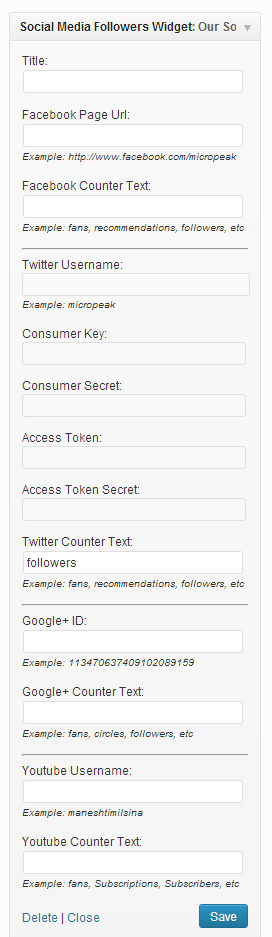
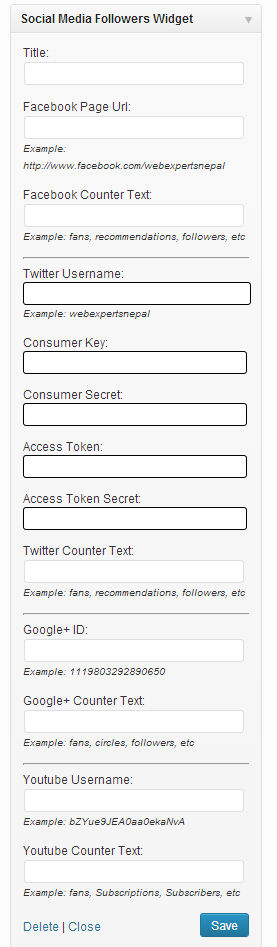
Screenshot, Readme.txt and functions changed
git-svn-id: https://plugins.svn.wordpress.org/social-media-followers-counter/trunk@728343 b8457f37-d9ea-0310-8a92-e5e31aec5664

diff --git a/social-counter.php b/social-counter.php
@@ -1,11 +1,11 @@
 <?php
 /*
- * Plugin Name: Social Media Followers Counter
+ * Plugin Name: WEN's Social Media Followers Counter
  * Version: 1.0
- * Plugin URI: #
- * Description: Display Likes of Facebook page, Followers of Twitter, Circles of Google Plus and Subscribers of Youtube.
- * Author: Manesh Timilsina
- * Author URI: http://manesh.com.np/
+ * Plugin URI: http://wordpress.org/plugins/social-media-followers-counter
+ * Description: A social media follower counter and custom text display plugin : this plugin currently fetch likes of Facebook page, followers of Twitter, circles of Google Plus and subscribers of Youtube . Comes packed with icon sprites and offers a neat display of the statistics . It is easy to setup and convenient to use.
+ * Author: Web Experts Nepal, Manesh Timilsina
+ * Author URI: http://webexpertsnepal.com
  * License: GNU/GPL http://www.gnu.org/copyleft/gpl.html
  */
 class FollowerCounterWidget extends WP_Widget
@@ -106,7 +106,7 @@ class FollowerCounterWidget extends WP_Widget
 		echo '<p style="text-align:left;"><label for="' . $this->get_field_name('title') . '">' . __('Title:') . ' <input style="width: 220px;" id="' . $this->get_field_id('title') . '" name="' . $this->get_field_name('title') . '" type="text" value="' . $title . '" /></label></p>';		
 		
 	echo '<p style="text-align:left;"><label for="' . $this->get_field_name('facebook_page_url') . '">' . __('Facebook Page Url:') . ' <input style="width: 220px;" id="' . $this->get_field_id('facebook_page_url') . '" name="' . $this->get_field_name('facebook_page_url') . '" type="text" value="' . $facebook . '" /></label>
-	<span style="font-size:10px; font-style: italic;">'.__('Example: http://www.facebook.com/micropeak ').'</span>
+	<span style="font-size:10px; font-style: italic;">'.__('Example: http://www.facebook.com/webexpertsnepal ').'</span>
 	</p>';
 	
 	echo '<p style="text-align:left;"><label for="' . $this->get_field_name('facebook_text') . '">' . __('Facebook Counter Text:') . ' <input style="width: 220px;" id="' . $this->get_field_id('facebook_text') . '" name="' . $this->get_field_name('facebook_text') . '" type="text" value="' . $facebook_text . '" /></label>
@@ -115,13 +115,13 @@ class FollowerCounterWidget extends WP_Widget
 	
 	echo '<hr></hr>';
 	?>
-    <p>
-	<label for="<?php echo $this->get_field_id('twitter_id'); ?>">Twitter Username:</label>
-	<input class="widefat" style="width: 220px;" id="<?php echo $this->get_field_id('twitter_id'); ?>" name="<?php echo $this->get_field_name('twitter_id'); ?>" value="<?php echo $instance['twitter_id']; ?>" />	
-	<span style="font-size:10px; font-style: italic;"><?php echo __('Example: micropeak '); ?></span>
-	</p>
+    	<p>
+        <label for="<?php echo $this->get_field_id('twitter_id'); ?>">Twitter Username:</label>
+        <input class="widefat" style="width: 220px;" id="<?php echo $this->get_field_id('twitter_id'); ?>" name="<?php echo $this->get_field_name('twitter_id'); ?>" value="<?php echo $instance['twitter_id']; ?>" />	
+		<span style="font-size:10px; font-style: italic;"><?php echo __('Example: webexpertsnepal '); ?></span>
+		</p>
 	
-    <p>
+    	<p>
 			<label for="<?php echo $this->get_field_id('consumer_key'); ?>">Consumer Key:</label>
 			<input class="widefat" style="width: 216px;" id="<?php echo $this->get_field_id('consumer_key'); ?>" name="<?php echo $this->get_field_name('consumer_key'); ?>" value="<?php echo $instance['consumer_key']; ?>" />
 		</p>
@@ -144,13 +144,13 @@ class FollowerCounterWidget extends WP_Widget
 		
     <?php
 	
-	echo '<p style="text-align:left;"><label for="' . $this->get_field_name('twitter_text') . '">' . __('Twitter Counter Text:') . ' <input style="width: 220px;" id="' . $this->get_field_id('twitter_text') . '" name="' . $this->get_field_name('twitter_text') . '" type="text" value="' . $twitter_text . '" /></label>
-	<span style="font-size:10px; font-style: italic;">'.__('Example: fans, recommendations, followers, etc ').'</span>
-	</p>';
+		echo '<p style="text-align:left;"><label for="' . $this->get_field_name('twitter_text') . '">' . __('Twitter Counter Text:') . ' <input style="width: 220px;" id="' . $this->get_field_id('twitter_text') . '" name="' . $this->get_field_name('twitter_text') . '" type="text" value="' . $twitter_text . '" /></label>
+		<span style="font-size:10px; font-style: italic;">'.__('Example: fans, recommendations, followers, etc ').'</span>
+		</p>';
 	
-	echo '<hr></hr>';
+		echo '<hr></hr>';
 		echo '<p style="text-align:left;"><label for="' . $this->get_field_name('gplus_id') . '">' . __('Google+ ID:') . ' <input style="width: 220px;" id="' . $this->get_field_id('gplus_id') . '" name="' . $this->get_field_name('gplus_id') . '" type="text" value="' . $gplus . '" /></label>
-		<span style="font-size:10px; font-style: italic;">'.__('Example: 113470637409102089159').'</span>
+		<span style="font-size:10px; font-style: italic;">'.__('Example: 1119803292890650').'</span>
 		</p>';
 		
 		echo '<p style="text-align:left;"><label for="' . $this->get_field_name('gplus_text') . '">' . __('Google+ Counter Text:') . ' <input style="width: 220px;" id="' . $this->get_field_id('gplus_text') . '" name="' . $this->get_field_name('gplus_text') . '" type="text" value="' . $gplus_text . '" /></label>
@@ -159,7 +159,7 @@ class FollowerCounterWidget extends WP_Widget
 		
 		echo '<hr></hr>';
 		echo '<p style="text-align:left;"><label for="' . $this->get_field_name('yt_id') . '">' . __('Youtube Username:') . ' <input style="width: 220px;" id="' . $this->get_field_id('yt_id') . '" name="' . $this->get_field_name('yt_id') . '" type="text" value="' . $yt . '" /></label>
-		<span style="font-size:10px; font-style: italic;">'.__('Example: maneshtimilsina').'</span>
+		<span style="font-size:10px; font-style: italic;">'.__('Example: bZYue9JEA0aa0ekaNvA').'</span>
 		</p>';
 		
 		echo '<p style="text-align:left;"><label for="' . $this->get_field_name('yt_text') . '">' . __('Youtube Counter Text:') . ' <input style="width: 220px;" id="' . $this->get_field_id('yt_text') . '" name="' . $this->get_field_name('yt_text') . '" type="text" value="' . $yt_text . '" /></label>
@@ -198,13 +198,13 @@ class FollowerCounterWidget extends WP_Widget
 	
 	
 
-public function scEnqueueStyles()
-		{
-			wp_register_style('SC_styles', plugins_url('/css/style.css', __FILE__), array(), $this->version, 'all');
-			wp_enqueue_style('SC_styles');
-		}
-
-}// END class
+	public function scEnqueueStyles()
+			{
+				wp_register_style('SC_styles', plugins_url('/css/style.css', __FILE__), array(), $this->version, 'all');
+				wp_enqueue_style('SC_styles');
+			}
+	
+	}// END class
 	
 	/**
 	* Register  widget.
@@ -212,50 +212,49 @@ public function scEnqueueStyles()
 	* Calls 'widgets_init' action after widget has been registered.
 	*/
 	function FollowerCounterInit() {
-	register_widget('FollowerCounterWidget');
+		register_widget('FollowerCounterWidget');
 	}	
 	add_action('widgets_init', 'FollowerCounterInit');
 	
-	
-	
 	function facebook_like_count($page_link){
-	$url = str_replace('https://www.facebook.com/', '', $page_link);
-
-	$curl_url = 'https://graph.facebook.com/' . $url;
-	try{
-	$ch = curl_init();
-	curl_setopt($ch, CURLOPT_URL, $curl_url);
-	curl_setopt($ch, CURLOPT_SSL_VERIFYPEER, FALSE);
-	curl_setopt($ch, CURLOPT_FOLLOWLOCATION, 1);
-	curl_setopt($ch, CURLOPT_HEADER, 0);
-	curl_setopt($ch, CURLOPT_RETURNTRANSFER, 1);
-	$result = curl_exec($ch);
-	$results = json_decode($result, true);
-	curl_close($ch);
-	if(array_key_exists( 'error', $results)){
-	$flc_message = 'Error - '.$results['error']['message'];
-	return $flc_message;
+		$url = str_replace('https://www.facebook.com/', '', $page_link);
+	
+		$curl_url = 'https://graph.facebook.com/' . $url;
+		try{
+		$ch = curl_init();
+		curl_setopt($ch, CURLOPT_URL, $curl_url);
+		curl_setopt($ch, CURLOPT_SSL_VERIFYPEER, FALSE);
+		curl_setopt($ch, CURLOPT_FOLLOWLOCATION, 1);
+		curl_setopt($ch, CURLOPT_HEADER, 0);
+		curl_setopt($ch, CURLOPT_RETURNTRANSFER, 1);
+		$result = curl_exec($ch);
+		$results = json_decode($result, true);
+		curl_close($ch);
+		if(array_key_exists( 'error', $results)){
+		$flc_message = 'Error - '.$results['error']['message'];
+		return $flc_message;
 	}
 	else{
-	update_option('flc_fb_like_count', $results['likes']);
-	$flc_message = 'Like count updated';
-	return (int)$results['likes'];
+		update_option('flc_fb_like_count', $results['likes']);
+		$flc_message = 'Like count updated';
+		return (int)$results['likes'];
 	}
 	}
 	catch( Exception $e){
 	$flc_message = $e->getMessage();
 	} 
 
-}
+	}
+	
 	function tweet_count($twitter_id, $consumer_key, $consumer_secret, $access_token, $access_token_secret ){
-$twitter_id = $twitter_id;		
-$consumer_key = $consumer_key;
-$consumer_secret = $consumer_secret;
-$access_token = $access_token;
-$access_token_secret = $access_token_secret;
+	$twitter_id = $twitter_id;		
+	$consumer_key = $consumer_key;
+	$consumer_secret = $consumer_secret;
+	$access_token = $access_token;
+	$access_token_secret = $access_token_secret;
 
 
-if($twitter_id && $consumer_key && $consumer_secret && $access_token && $access_token_secret) { 
+	if($twitter_id && $consumer_key && $consumer_secret && $access_token && $access_token_secret) { 
 
 		$transName = 'list_tweets_'.$args['widget_id'];
 		$cacheTime = 10;
@@ -289,25 +288,16 @@ if($twitter_id && $consumer_key && $consumer_secret && $access_token && $access_
 		
 		if($twitter && is_array($twitter)) {
 			$count = $twitter[0]->user->followers_count;
-			
 			return $count;
-			
-		
-		
 		 }}
-		
-	
-	
-	
-	
 	}
 
 
 
 function google_plus_count($id)
 	{
-		
 		$link = "https://plus.google.com/u/0/".$id."/posts?hl=en";
+		
 		$data = file_get_contents("$link");
 		
 		preg_match('/<span role="button" class="a-n S1xjN" tabindex="0">(.*?)<\/span>/s', $data, $followers);
@@ -343,17 +333,18 @@ function google_plus_count($id)
 		return $circles1;
 	}
 	
-function get_yt_subs($uname) { 
-	
-	$link = "http://gdata.youtube.com/feeds/api/users/".$uname;
+	function get_yt_subs($uname) { 
+		
+		$link = "http://gdata.youtube.com/feeds/api/users/".$uname;
+		
 		$xmlData = file_get_contents("$link");
- 
-$xmlData = str_replace('yt:', 'yt', $xmlData); 
-
-$xml = new SimpleXMLElement($xmlData); 
-
-$subs = $xml->ytstatistics['subscriberCount']; 
-
-return($subs);
- }
+		 
+		$xmlData = str_replace('yt:', 'yt', $xmlData); 
+		
+		$xml = new SimpleXMLElement($xmlData); 
+		
+		$subs = $xml->ytstatistics['subscriberCount']; 
+		
+		return($subs);
+	 }
 ?>
